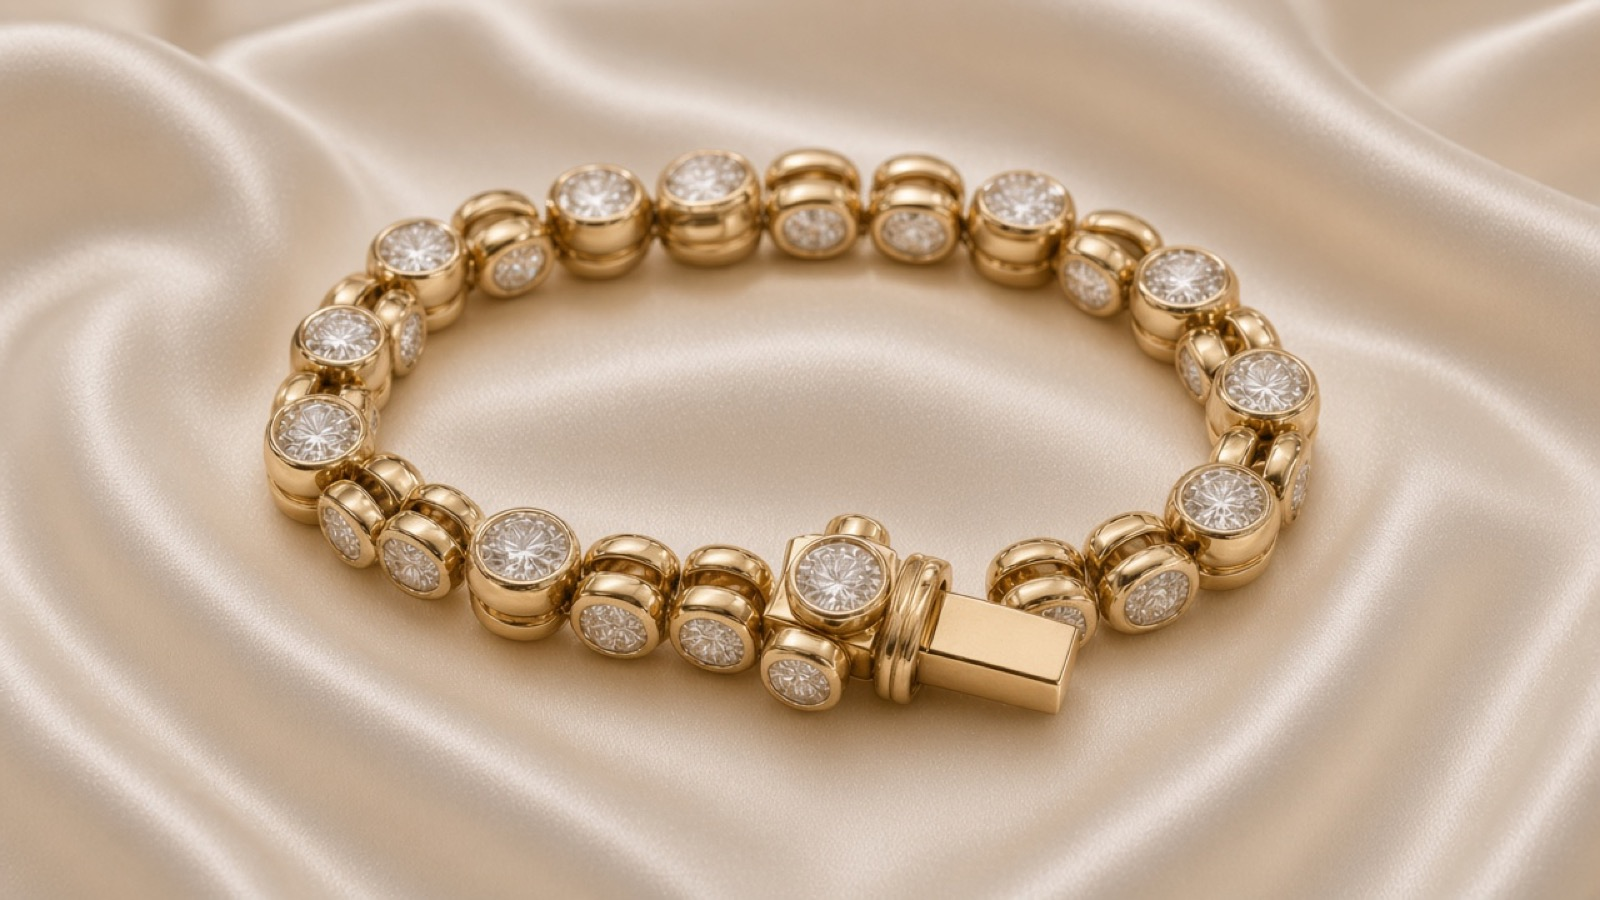
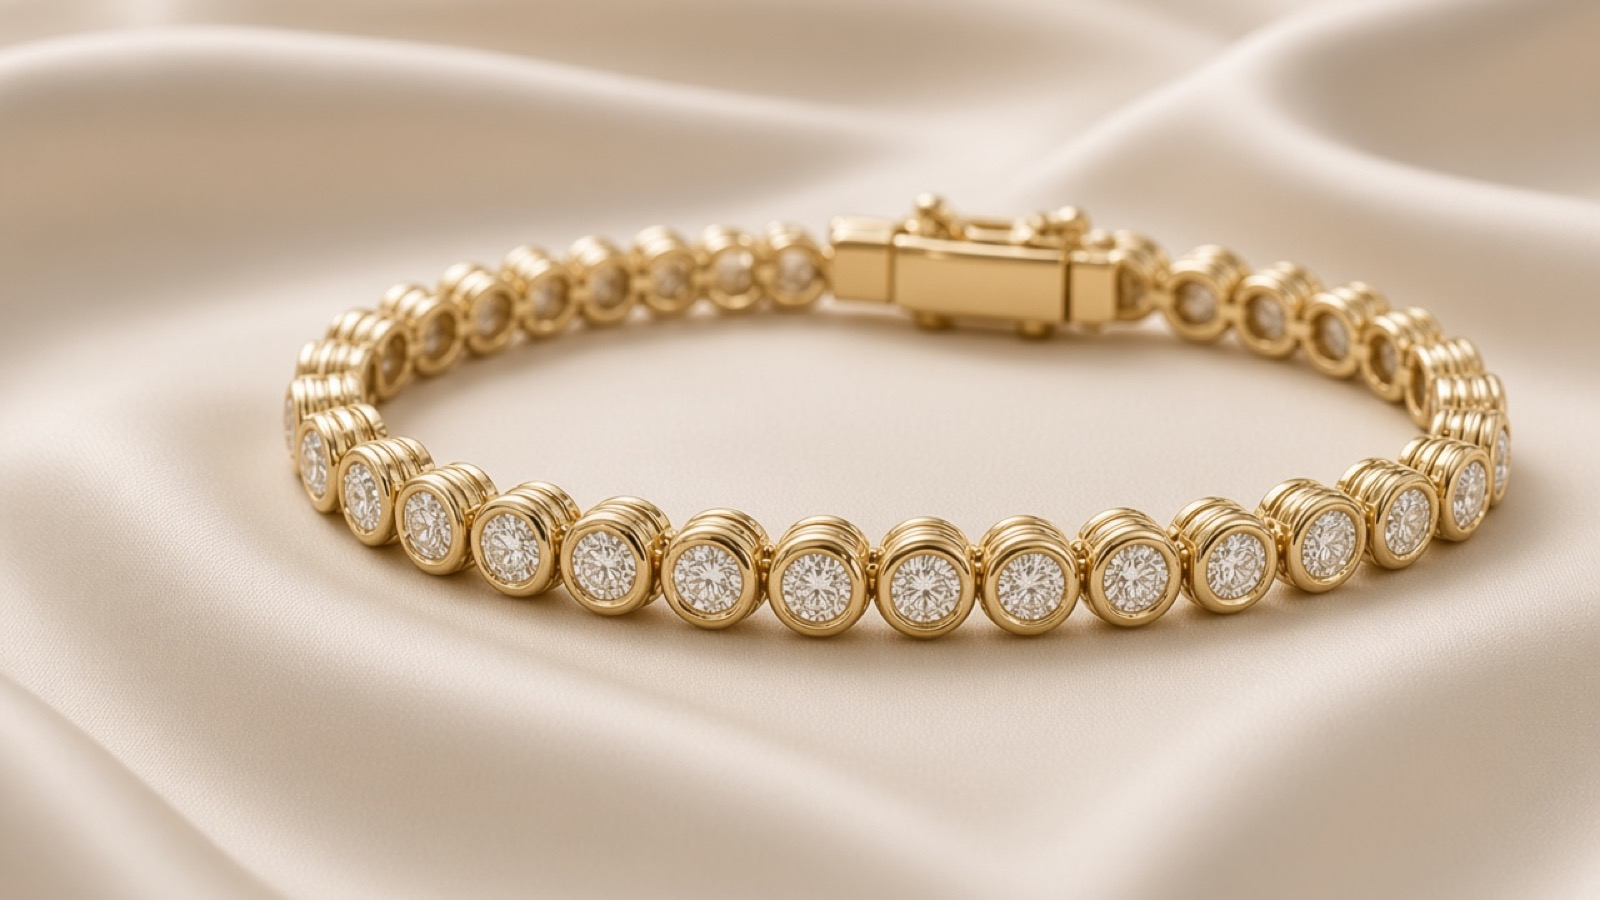
Lock twisted bezel Full and rematch other angles.
Restore the preferred Full cover and regenerate layout, casting, face, and clasp from that exact stacked bezel mold.

diff --git a/src/data/catalog.ts b/src/data/catalog.ts
@@ -87,33 +87,33 @@ export const catalogPieces: CatalogPiece[] = [
     title: 'Twisted bezel bracelet',
     line: 'bracelets',
     image: 'images/products/bezel-tennis/cover.jpg',
-    alt: 'Yellow gold twisted tubular bezel diamond bracelet on cream silk',
+    alt: 'Yellow gold twisted bezel diamond bracelet in oval layout on cream silk',
     blurb:
-      'Twisted tubular yellow-gold bezel mold with round diamonds facing top and sides. Full, layout, casting, face, and clasp views.',
+      'Yellow-gold stacked/ribbed bezel links with round diamonds. Full locked; layout, casting, face, and clasp match that mold.',
     shots: [
       {
         src: 'images/products/bezel-tennis/cover.jpg',
-        alt: 'Full twisted tubular yellow gold bezel diamond bracelet on cream silk',
+        alt: 'Full yellow gold twisted bezel diamond bracelet on cream silk',
         label: 'Full',
       },
       {
         src: 'images/products/bezel-tennis/layout.jpg',
-        alt: 'Twisted bezel bracelet layout showing multi-face diamond orientation',
+        alt: 'Layout of twisted bezel bracelet matching the full mold',
         label: 'Layout',
       },
       {
         src: 'images/products/bezel-tennis/casting.jpg',
-        alt: 'Casting profile of twisted tubular bezel links with side-facing diamonds',
+        alt: 'Casting profile of stacked ribbed bezel links',
         label: 'Casting',
       },
       {
         src: 'images/products/bezel-tennis/face.jpg',
-        alt: 'Face and side diamonds on twisted yellow gold bezel links',
+        alt: 'Face view of round diamonds in twisted bezel settings',
         label: 'Face',
       },
       {
         src: 'images/products/bezel-tennis/clasp.jpg',
-        alt: 'Clasp of twisted bezel bracelet with square head and side diamonds',
+        alt: 'Clasp detail matching the twisted bezel full mold',
         label: 'Clasp',
       },
     ],
